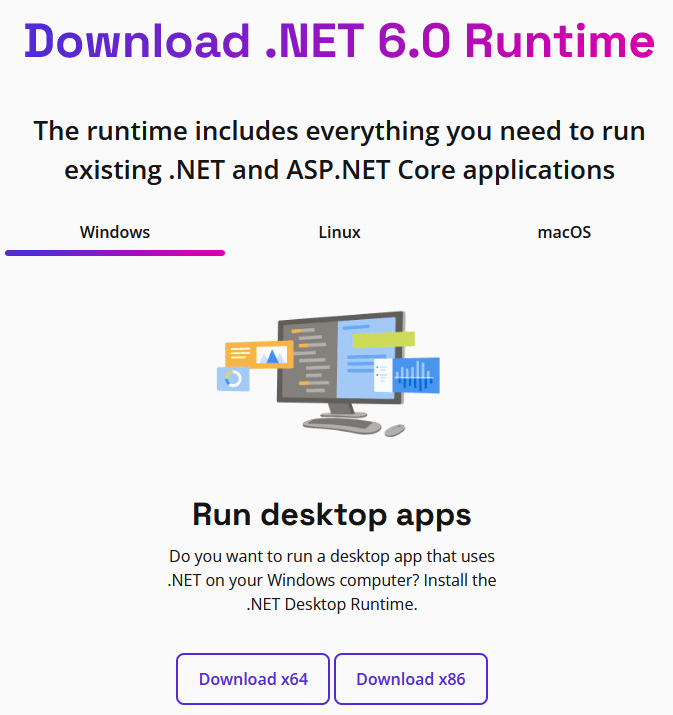
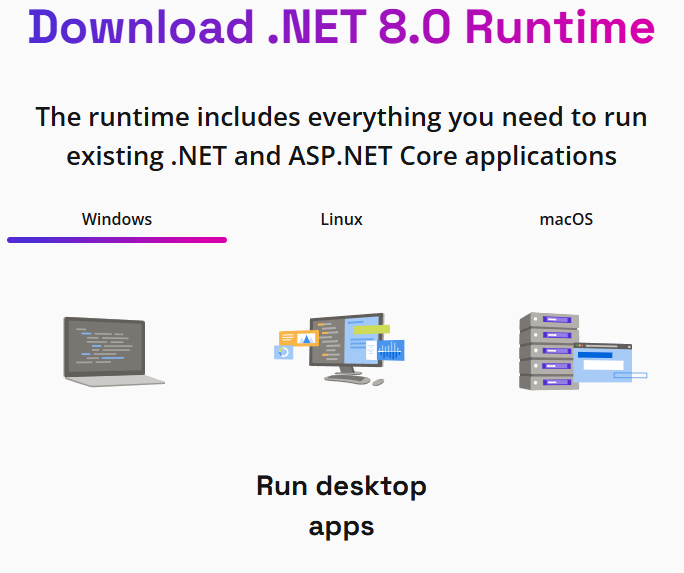
Update README

diff --git a/README.md b/README.md
@@ -12,7 +12,7 @@ This program will save the files the proper way so you console will boot super f
 ## Features
 * Multi platform. Windows/Linux/OSX
 * Supports both GDmenu and openMenu
-* Supports GDI, CDI, MDS and CCD files. Also compressed files inside zip/rar/7z
+* Supports GDI, CDI, MDS, CCD, CHD and CUE/BIN files. Also compressed files inside zip/rar/7z
 * Add/delete/rename items
 * Sort alphabetically
 * Sort manually by drag and drop
@@ -36,56 +36,63 @@ openMenu will display customized icon, box art and text info for each title, but
 openMenu DAT files should go to this app's subfolder `tools\openMenu\menu_data`.<br/>
 Grab the DAT files from mrneo240's repos: [imagedb](https://github.com/mrneo240/openMenu_imagedb) and [metadb](https://github.com/mrneo240/openMenu_metadb)
 
-### Windows version requires the .Net 6 Desktop Runtime
-Download and install the [Desktop Runtime installer](https://dotnet.microsoft.com/download/dotnet/6.0/runtime) for your system.
+### Windows version requires the .Net 8 Desktop Runtime
+Download and install the [Desktop Runtime installer](https://dotnet.microsoft.com/download/dotnet/8.0/runtime) for your system.
 ![Dot Net Runtime](docs/dotnetruntime.png)
 
 ### Limitations
-On Linux version it's not possible to use drag-and-drop.
-
 **If you can't run it on OSX please check issue #4 for a workaround**
 
 ### Building
+When building for Linux or macOS, set the executable permission (`chmod +x`) on `GDMENUCardManager` and `tools/redump2cdi`.
+
 - Linux x64 via CLI
-  - ensure dotnet sdk 6.0 is installed via  [Install .NET on Linux](https://learn.microsoft.com/en-us/dotnet/core/install/linux)
+  - ensure dotnet sdk 8.0 is installed via  [Install .NET on Linux](https://learn.microsoft.com/en-us/dotnet/core/install/linux)
   - clone repository
   - Build & Publish
     - Simple
-      - execute `dotnet publish GDMENUCardManager.AvaloniaUI/GDMENUCardManager.AvaloniaUI.csproj -c Release`
+      - execute `dotnet publish GDMENUCardManager.AvaloniaUI/GDMENUCardManager.AvaloniaUI.csproj -c Release -r linux-x64`
     - Single File Self Contained (more portable, includes dotnet runtime bundled in)
       - execute `dotnet publish GDMENUCardManager.AvaloniaUI/GDMENUCardManager.AvaloniaUI.csproj -c Release --self-contained true -r linux-x64  -p:PublishSingleFile=true -p:IncludeNativeLibrariesForSelfExtract=true`
-  - Execute `GDMENUCardManager` in `GDMENUCardManager/src/GDMENUCardManager.AvaloniaUI/bin/Release/net6.0/linux-x64/publish`
+  - Execute `GDMENUCardManager` in `GDMENUCardManager/src/GDMENUCardManager.AvaloniaUI/bin/Release/net8.0/linux-x64/publish`
     -via double click or by running `./GDMENUCardManager` or by `dotnet ./GDMENUCardManager`
 
 ### Building for MacOS
   #### Install dependencies
   ##### Runtime is required to run the application and dotnet is required to build the application.
 
-  - install .NET Runtime 6.0 from [here](https://dotnet.microsoft.com/download/dotnet/6.0/runtime)
+  - install .NET Runtime 8.0 from [here](https://dotnet.microsoft.com/download/dotnet/8.0/runtime)
   - `brew install dotnet`
   #### Build
-  ##### Navigate to the `src` folder and build the project using dotnet publish.
+  ##### Navigate to the `src` folder and build the project using dotnet publish. Use `-r osx-arm64` on Apple Silicon Macs or `-r osx-x64` on Intel Macs.
   ```bash
   $ cd src/
-  $ dotnet publish GDMENUCardManager.AvaloniaUI/GDMENUCardManager.AvaloniaUI.csproj -c Release
+  $ dotnet publish GDMENUCardManager.AvaloniaUI/GDMENUCardManager.AvaloniaUI.csproj -c Release -r osx-arm64
   ```
   #### Run
   ##### Navigate to the publish folder and run the application.
   ```bash
-  $ cd GDMENUCardManager.AvaloniaUI/bin/Release/net6.0/publish/
+  $ cd GDMENUCardManager.AvaloniaUI/bin/Release/net8.0/osx-arm64/publish/
   $ ./GDMENUCardManager
   ```
 
 ### Credits
 This software is made possible by using third party tools:
 
-GDmenu by neuroacid<br />
+[GDEMU](https://gdemu.wordpress.com),
+[GDmenu](https://assemblergames.org/viewtopic.php?t=49106&start=190),
 [openMenu](https://github.com/mrneo240/openmenu/),
 [GdiTools](https://sourceforge.net/projects/dcisotools/),
 [GdiBuilder](https://github.com/Sappharad/GDIbuilder/),
 [Aaru](https://github.com/aaru-dps/Aaru/),
 [PuyoTools](https://github.com/nickworonekin/puyotools/),
 [7-zip](https://www.7-zip.org/),
-[SevenZipSharp](https://github.com/squid-box/SevenZipSharp/)
+[SevenZipSharp](https://github.com/squid-box/SevenZipSharp/),
+[SharpCompress](https://github.com/adamhathcock/sharpcompress/),
+[libchdr](https://github.com/rtissera/libchdr/),
+[gdidrop](https://github.com/feyris-tan/gdidrop),
+[Redump2CDI](https://dreamcast.wiki/Redump2CDI)
+
+Some features backported from Derek Pascarella's (ateam) [GD MENU Card Manager fork](https://github.com/DerekPascarella/openMenu-Virtual-Folder-Bundle/tree/main/GD%20MENU%20Card%20Manager)
 
 Special thanks to megavolt85 and everyone in the dreamcast scene
